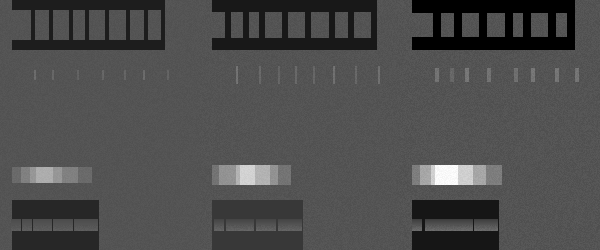
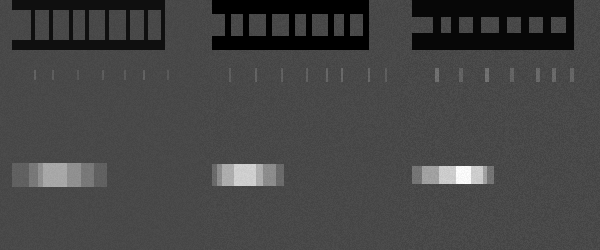
feat: 适配了横梁地形的生成，删除了斜坡地形以对齐dagger训练

diff --git a/scripts/mujoco_terrain_test/export_multi_env_terrain.py b/scripts/mujoco_terrain_test/export_multi_env_terrain.py
@@ -7,7 +7,7 @@ Generates a grid of terrain blocks following IsaacLab's proportion-based distrib
 - parkour_hurdle: 20%  
 - parkour_flat: 20%
 - parkour_step: 20%
-- parkour: 20% (inclined stones)
+- parkour_beam: 20% (suspended overhead beams - robot must duck under)
 
 All obstacles are CENTER-ALIGNED (no Y-axis random offset).
 
@@ -28,13 +28,14 @@ VERTICAL_SCALE = 0.005   # height scale
 TERRAIN_SIZE = (16.0, 4.0)  # (length_x, width_y) per env block
 NUM_GOALS = 10  # Number of goals/obstacles per terrain (matching IsaacLab)
 
-# Terrain type proportions (matching EXTREME_PARKOUR_TERRAINS_CFG)
+# Terrain type proportions (matching EXTREME_PARKOUR_TERRAINS_CFG with beam instead of slope)
+# NOTE: Order determines column layout. Beam is placed in middle (column 2) for better visibility
 TERRAIN_PROPORTIONS = {
     "parkour_gap": 0.2,
     "parkour_hurdle": 0.2,
-    "parkour_flat": 0.2,
+    "parkour_beam": 0.2,  # Beam in middle column (was flat)
     "parkour_step": 0.2,
-    "parkour": 0.2,
+    "parkour_flat": 0.2,  # Flat moved to last column (was beam)
 }
 
 
@@ -64,10 +65,10 @@ class TerrainConfig:
         self.step_x_range = (0.3, 1.5)
         self.step_half_valid_width = (0.5, 1.0)
         
-        # Parkour (inclined stones) params
-        self.parkour_pit_depth = (0.2, 1.0)
-        self.parkour_stone_width = 1.0
-        self.parkour_last_stone_len = 1.6
+        # Beam terrain params (replaces parkour slope)
+        self.beam_x_range = (1.2, 2.2)
+        self.beam_half_valid_width = (0.5, 0.8)
+        self.beam_depth = 0.2  # Vertical thickness of beam
 
 
 def add_roughness(height_field: np.ndarray, cfg: TerrainConfig, difficulty: float) -> np.ndarray:
@@ -243,90 +244,87 @@ def generate_step_terrain(cfg: TerrainConfig, difficulty: float) -> np.ndarray:
     return height_field
 
 
-def generate_parkour_terrain(cfg: TerrainConfig, difficulty: float) -> np.ndarray:
+def generate_beam_terrain(cfg: TerrainConfig, difficulty: float) -> tuple:
     """
-    Generate parkour terrain with inclined stones - CENTER ALIGNED.
-    Based on parkour_terrain from extreme_parkour_terrians.py
+    Generate beam terrain - CENTER ALIGNED suspended overhead beams.
+    
+    Beams are represented as elevated obstacles that the robot must pass under.
+    Returns both the heightfield and beam box positions.
+    
+    Returns:
+        height_field: Ground heightfield
+        beam_boxes: List of (x, y, z_relative, size_x, size_y, size_z) for suspended beams
+                   z_relative is height above the flat ground (in heightfield meters, i.e. 0 = flat ground)
     """
     width_pixels = int(cfg.size[0] / cfg.horizontal_scale)
     length_pixels = int(cfg.size[1] / cfg.horizontal_scale)
-    
-    pit_depth = -round(np.random.uniform(*cfg.parkour_pit_depth) / cfg.vertical_scale)
-    height_field = np.full((width_pixels, length_pixels), pit_depth, dtype=np.float32)
+    height_field = np.zeros((width_pixels, length_pixels))
     
     mid_y = length_pixels // 2
     
-    # Stone parameters
-    stone_len_min = 0.9 - 0.3 * difficulty
-    stone_len_max = 1.0 - 0.2 * difficulty
-    stone_len = np.random.uniform(stone_len_min, stone_len_max)
-    stone_len = 2 * round(stone_len / 2.0, 1)
-    stone_len_pixels = round(stone_len / cfg.horizontal_scale)
+    # Beam parameters
+    beam_length = 0.3 + 0.3 * difficulty
+    beam_length_pixels = round(beam_length / cfg.horizontal_scale)
     
-    stone_width = round(cfg.parkour_stone_width / cfg.horizontal_scale)
-    last_stone_len = round(cfg.parkour_last_stone_len / cfg.horizontal_scale)
+    # Beam clearance (height above ground) - robot must duck under
+    # Increased height (0.5-0.7m) to ensure beams are clearly visible above terrain
+    beam_height_min = 0.5 - 0.1 * difficulty
+    beam_height_max = 0.7 - 0.1 * difficulty
     
-    incline_height = 0.25 * difficulty
-    incline_height_pixels = round(incline_height / cfg.vertical_scale)
+    half_valid_width = round(np.random.uniform(*cfg.beam_half_valid_width) / cfg.horizontal_scale)
     
-    x_range_min = -0.1
-    x_range_max = 0.1 + 0.3 * difficulty
+    dis_x_min = round(cfg.beam_x_range[0] / cfg.horizontal_scale)
+    dis_x_max = round(cfg.beam_x_range[1] / cfg.horizontal_scale)
     
-    # Platform
     platform_len = round(cfg.platform_len / cfg.horizontal_scale)
     platform_height = round(cfg.platform_height / cfg.vertical_scale)
-    height_field[0:platform_len, :] = platform_height
     
-    dis_x_min = stone_len_pixels + round(x_range_min / cfg.horizontal_scale)
-    dis_x_max = stone_len_pixels + round(x_range_max / cfg.horizontal_scale)
+    # Flat ground for beam terrain (platform_height = 0 in heightfield units)
+    height_field[:] = platform_height
     
-    dis_x = platform_len - np.random.randint(max(1, dis_x_min), max(2, dis_x_max)) + stone_len_pixels // 2
-    dis_z = 0
+    # Store the ground height in meters (this is the reference for beam placement)
+    ground_height_m = platform_height * cfg.vertical_scale  # = 0.0m for flat ground
     
-    num_stones = NUM_GOALS - 2
-    for i in range(num_stones):
-        dis_x += np.random.randint(max(1, dis_x_min), max(2, dis_x_max))
+    dis_x = platform_len
+    beam_boxes = []
+    
+    num_beams = NUM_GOALS - 2
+    for i in range(num_beams):
+        rand_x = np.random.randint(dis_x_min, dis_x_max)
+        dis_x += rand_x
         
-        if dis_x >= width_pixels - last_stone_len:
+        if dis_x >= width_pixels - platform_len:
             break
         
-        # Inclined stone centered at mid_y (no Y offset)
-        if i == num_stones - 1:
-            # Last stone (larger)
-            heights = np.tile(np.linspace(-incline_height_pixels, incline_height_pixels, stone_width), 
-                            (last_stone_len, 1))
-            x_start = max(0, dis_x - last_stone_len // 2)
-            x_end = min(width_pixels, dis_x + last_stone_len // 2)
-            y_start = max(0, mid_y - stone_width // 2)
-            y_end = min(length_pixels, mid_y + stone_width // 2)
-            height_field[x_start:x_end, y_start:y_end] = heights[:x_end-x_start, :y_end-y_start].astype(int) + dis_z
-        else:
-            heights = np.tile(np.linspace(-incline_height_pixels, incline_height_pixels, stone_width), 
-                            (stone_len_pixels, 1))
-            x_start = max(0, dis_x - stone_len_pixels // 2)
-            x_end = min(width_pixels, dis_x + stone_len_pixels // 2)
-            y_start = max(0, mid_y - stone_width // 2)
-            y_end = min(length_pixels, mid_y + stone_width // 2)
-            height_field[x_start:x_end, y_start:y_end] = heights[:x_end-x_start, :y_end-y_start].astype(int) + dis_z
-    
-    # End platform
-    final_platform_start = dis_x + last_stone_len // 2 + round(0.05 / cfg.horizontal_scale)
-    if final_platform_start < width_pixels:
-        height_field[final_platform_start:, :] = platform_height
+        # Calculate beam parameters
+        clearance = np.random.uniform(beam_height_min, beam_height_max)
+        
+        # Beam dimensions in meters
+        beam_x_m = dis_x * cfg.horizontal_scale
+        beam_y_m = mid_y * cfg.horizontal_scale
+        # beam_z_m is relative to flat ground (ground_height_m = 0)
+        # clearance is the distance from ground to bottom of beam
+        # beam center is at ground_height + clearance + half beam thickness
+        beam_z_relative = ground_height_m + clearance + cfg.beam_depth / 2
+        beam_size_x = beam_length_pixels * cfg.horizontal_scale
+        beam_size_y = (half_valid_width * 2 + round(0.4 / cfg.horizontal_scale)) * cfg.horizontal_scale
+        beam_size_z = cfg.beam_depth
+        
+        beam_boxes.append((beam_x_m, beam_y_m, beam_z_relative, beam_size_x, beam_size_y, beam_size_z))
     
     height_field = add_roughness(height_field, cfg, difficulty)
-    return height_field
+    return height_field, beam_boxes
 
 
 # ============================================================================
 # Terrain type generator mapping
 # ============================================================================
 TERRAIN_GENERATORS = {
-    "parkour_gap": lambda cfg, d: generate_gap_terrain(cfg, d),
-    "parkour_hurdle": lambda cfg, d: generate_hurdle_terrain(cfg, d, apply_flat=False),
-    "parkour_flat": lambda cfg, d: generate_hurdle_terrain(cfg, d, apply_flat=True),
-    "parkour_step": lambda cfg, d: generate_step_terrain(cfg, d),
-    "parkour": lambda cfg, d: generate_parkour_terrain(cfg, d),
+    "parkour_gap": lambda cfg, d: (generate_gap_terrain(cfg, d), []),
+    "parkour_hurdle": lambda cfg, d: (generate_hurdle_terrain(cfg, d, apply_flat=False), []),
+    "parkour_flat": lambda cfg, d: (generate_hurdle_terrain(cfg, d, apply_flat=True), []),
+    "parkour_step": lambda cfg, d: (generate_step_terrain(cfg, d), []),
+    "parkour_beam": lambda cfg, d: generate_beam_terrain(cfg, d),
 }
 
 
@@ -335,13 +333,14 @@ def generate_multi_env_terrain(
     num_rows: int,
     num_cols: int,
     difficulty_range: tuple = (0.0, 1.0),
-) -> tuple[np.ndarray, list]:
+) -> tuple:
     """
     Generate a grid of terrain blocks following IsaacLab's curriculum layout.
     
     Returns:
         combined_terrain: 2D height field array
         terrain_info: List of (row, col, terrain_type, difficulty) for each block
+        all_beams: List of beam box tuples for MuJoCo scene
     """
     width_pixels_per_env = int(cfg.size[0] / cfg.horizontal_scale)
     length_pixels_per_env = int(cfg.size[1] / cfg.horizontal_scale)
@@ -351,6 +350,7 @@ def generate_multi_env_terrain(
     
     combined = np.zeros((total_width, total_length), dtype=np.float32)
     terrain_info = []
+    all_beams = []  # Store all beam boxes
     
     # Calculate column assignments based on proportions
     terrain_types = list(TERRAIN_PROPORTIONS.keys())
@@ -379,8 +379,8 @@ def generate_multi_env_terrain(
             terrain_type = col_terrain_types[col]
             generator = TERRAIN_GENERATORS[terrain_type]
             
-            # Generate terrain block
-            block = generator(cfg, difficulty)
+            # Generate terrain block (returns tuple: heightfield, beam_boxes)
+            block, beams = generator(cfg, difficulty)
             
             # Place in combined terrain
             row_start = row * width_pixels_per_env
@@ -390,8 +390,14 @@ def generate_multi_env_terrain(
             
             combined[row_start:row_end, col_start:col_end] = block
             terrain_info.append((row, col, terrain_type, difficulty))
+            
+            # Handle beam boxes - offset to global position
+            for (bx, by, bz, sx, sy, sz) in beams:
+                global_x = bx + row * cfg.size[0]
+                global_y = by + col * cfg.size[1]
+                all_beams.append((global_x, global_y, bz, sx, sy, sz))
     
-    return combined, terrain_info
+    return combined, terrain_info, all_beams
 
 
 def height_field_to_png(height_field: np.ndarray, output_path: str, vertical_scale: float) -> tuple:
@@ -423,17 +429,51 @@ def create_mujoco_scene(
     max_height: float,
     num_rows: int,
     num_cols: int,
+    beams: list = None,
 ):
-    """Create MuJoCo XML scene with the combined terrain."""
+    """
+    Create MuJoCo XML scene with the combined terrain and beam obstacles.
+    
+    MuJoCo hfield coordinate system:
+    - hfield size = (half_x, half_y, height_range, base)
+    - PNG normalized to [0,1], where 0=black (min height), 1=white (max height)
+    - World z = geom_pos_z + base + normalized * height_range
+    
+    For flat ground (heightfield value = 0m):
+    - normalized_flat = (0 - min_height) / height_range
+    - flat_world_z = geom_pos_z + base + normalized_flat * height_range
+                   = (-min_height) + base + (0 - min_height) / height_range * height_range
+                   = (-min_height) + base + (0 - min_height)
+                   = -min_height + base - min_height
+                   = base - 2*min_height  (if min_height < 0)
+    
+    Beams z_relative is relative to flat ground (0m in heightfield), so:
+    - beam_world_z = flat_world_z + z_relative
+    """
     half_x = total_width / 2
     half_y = total_length / 2
     height_range = max_height - min_height
     base_thickness = 0.1
     
+    # Calculate flat ground world z coordinate
+    # Flat ground has heightfield value = 0m
+    # In PNG: normalized_flat = (0 - min_height) / height_range
+    # In MuJoCo: flat_world_z = geom_pos_z + base + normalized_flat * height_range
+    geom_pos_z = -min_height
+    normalized_flat = (0 - min_height) / height_range if height_range > 0 else 0
+    flat_world_z = geom_pos_z + base_thickness + normalized_flat * height_range
+    
+    print(f"\nMuJoCo coordinate calculation:")
+    print(f"  min_height: {min_height:.4f}m, max_height: {max_height:.4f}m")
+    print(f"  height_range: {height_range:.4f}m")
+    print(f"  geom_pos_z: {geom_pos_z:.4f}m")
+    print(f"  normalized_flat: {normalized_flat:.4f}")
+    print(f"  flat_world_z: {flat_world_z:.4f}m (this is where z=0 heightfield maps to)")
+    
     hfield_filename = os.path.basename(hfield_path)
     
     xml_content = f'''<?xml version="1.0" encoding="utf-8"?>
-<mujoco model="multi_env_parkour_terrain">
+<mujoco model="multi_env_parkour_terrain_with_beams">
   <compiler angle="radian" autolimits="true"/>
   
   <option gravity="0 0 -9.81" timestep="0.002"/>
@@ -453,15 +493,28 @@ def create_mujoco_scene(
     
     <texture type="skybox" builtin="gradient" rgb1="0.4 0.6 0.8" rgb2="0 0 0" width="512" height="3072"/>
     <material name="terrain_mat" rgba="0.55 0.5 0.45 1" specular="0.1"/>
+    <material name="beam_mat" rgba="0.6 0.3 0.2 1" specular="0.3"/>
     <material name="ball_mat" rgba="0.9 0.2 0.2 1"/>
   </asset>
   
   <worldbody>
     <!-- Terrain -->
     <geom name="terrain" type="hfield" hfield="parkour_terrain" 
-          pos="0 0 {-min_height:.4f}" material="terrain_mat"/>
+          pos="0 0 {geom_pos_z:.4f}" material="terrain_mat"/>'''
     
-    <!-- Test balls - one per row at the start -->'''
+    # Add beam obstacles
+    if beams:
+        for i, (bx, by, bz_relative, sx, sy, sz) in enumerate(beams):
+            # Convert to MuJoCo world coordinates (centered at origin)
+            mx = bx - half_x
+            my = by - half_y
+            # bz_relative is relative to flat ground (0m in heightfield)
+            # Convert to world z by adding flat_world_z
+            mz = flat_world_z + bz_relative
+            xml_content += f'''
+    <!-- Beam {i} -->
+    <geom name="beam_{i}" type="box" pos="{mx:.3f} {my:.3f} {mz:.3f}" 
+          size="{sx/2:.3f} {sy/2:.3f} {sz/2:.3f}" material="beam_mat"/>'''
     
     # Add test balls for each row
     env_width = TERRAIN_SIZE[0]
@@ -487,7 +540,7 @@ def create_mujoco_scene(
 
 
 def main():
-    parser = argparse.ArgumentParser(description="Export multi-env parkour terrain for MuJoCo")
+    parser = argparse.ArgumentParser(description="Export multi-env parkour terrain for MuJoCo (with beam)")
     parser.add_argument("--num_rows", type=int, default=3, help="Number of difficulty levels (rows)")
     parser.add_argument("--num_cols", type=int, default=5, help="Number of terrain columns")
     parser.add_argument("--difficulty_min", type=float, default=0.3, help="Minimum difficulty")
@@ -504,7 +557,7 @@ def main():
     cfg = TerrainConfig()
     
     print("=" * 70)
-    print("Multi-Env Parkour Terrain Export (IsaacLab-style)")
+    print("Multi-Env Parkour Terrain Export (with BEAM terrain)")
     print("=" * 70)
     print(f"\nGrid: {args.num_rows} rows × {args.num_cols} cols = {args.num_rows * args.num_cols} envs")
     print(f"Each env: {cfg.size[0]}m × {cfg.size[1]}m")
@@ -513,7 +566,7 @@ def main():
     print(f"Obstacles: CENTER-ALIGNED (no Y-axis random offset)")
     
     # Generate terrain
-    combined, terrain_info = generate_multi_env_terrain(
+    combined, terrain_info, beams = generate_multi_env_terrain(
         cfg,
         num_rows=args.num_rows,
         num_cols=args.num_cols,
@@ -525,6 +578,7 @@ def main():
     
     print(f"\nGenerated terrain shape: {combined.shape}")
     print(f"Height range: {combined.min() * cfg.vertical_scale:.3f}m to {combined.max() * cfg.vertical_scale:.3f}m")
+    print(f"Number of beam obstacles: {len(beams)}")
     
     # Export
     hfield_path = os.path.join(output_dir, "multi_env_terrain_heightmap.png")
@@ -535,7 +589,8 @@ def main():
         scene_path, hfield_path,
         total_width, total_length,
         min_height, max_height,
-        args.num_rows, args.num_cols
+        args.num_rows, args.num_cols,
+        beams
     )
     
     print(f"\nExported files:")
